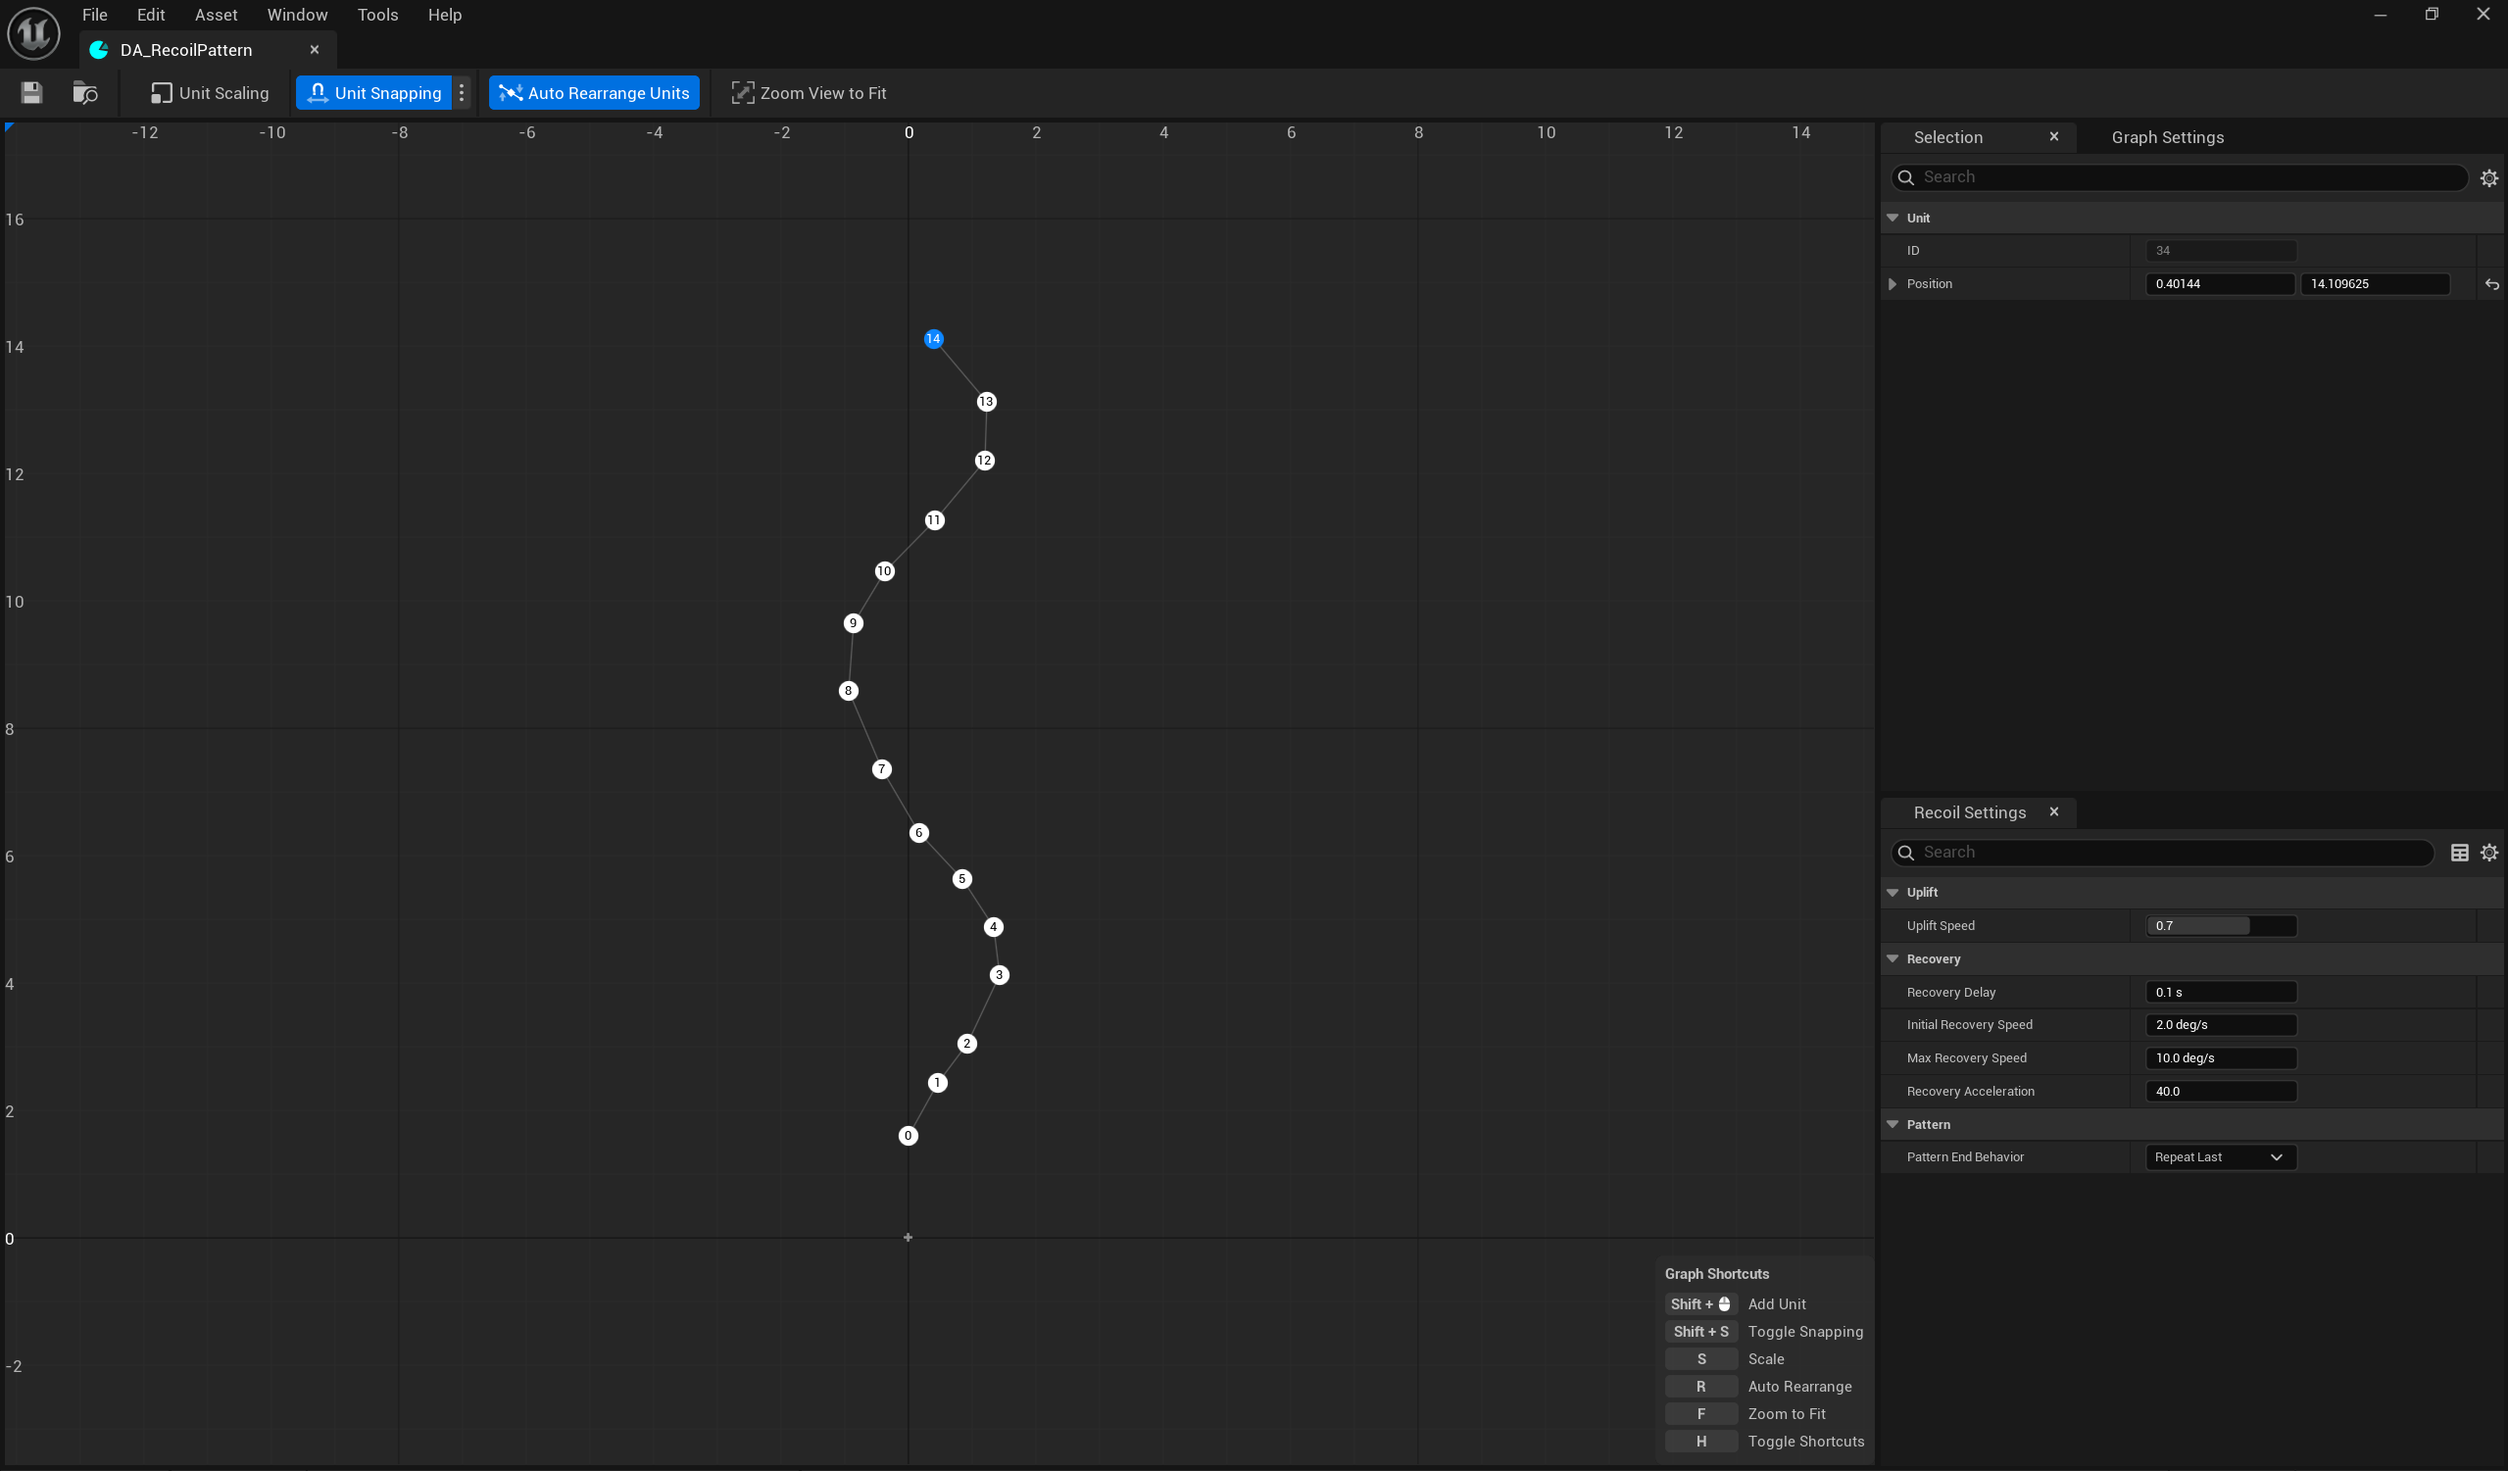
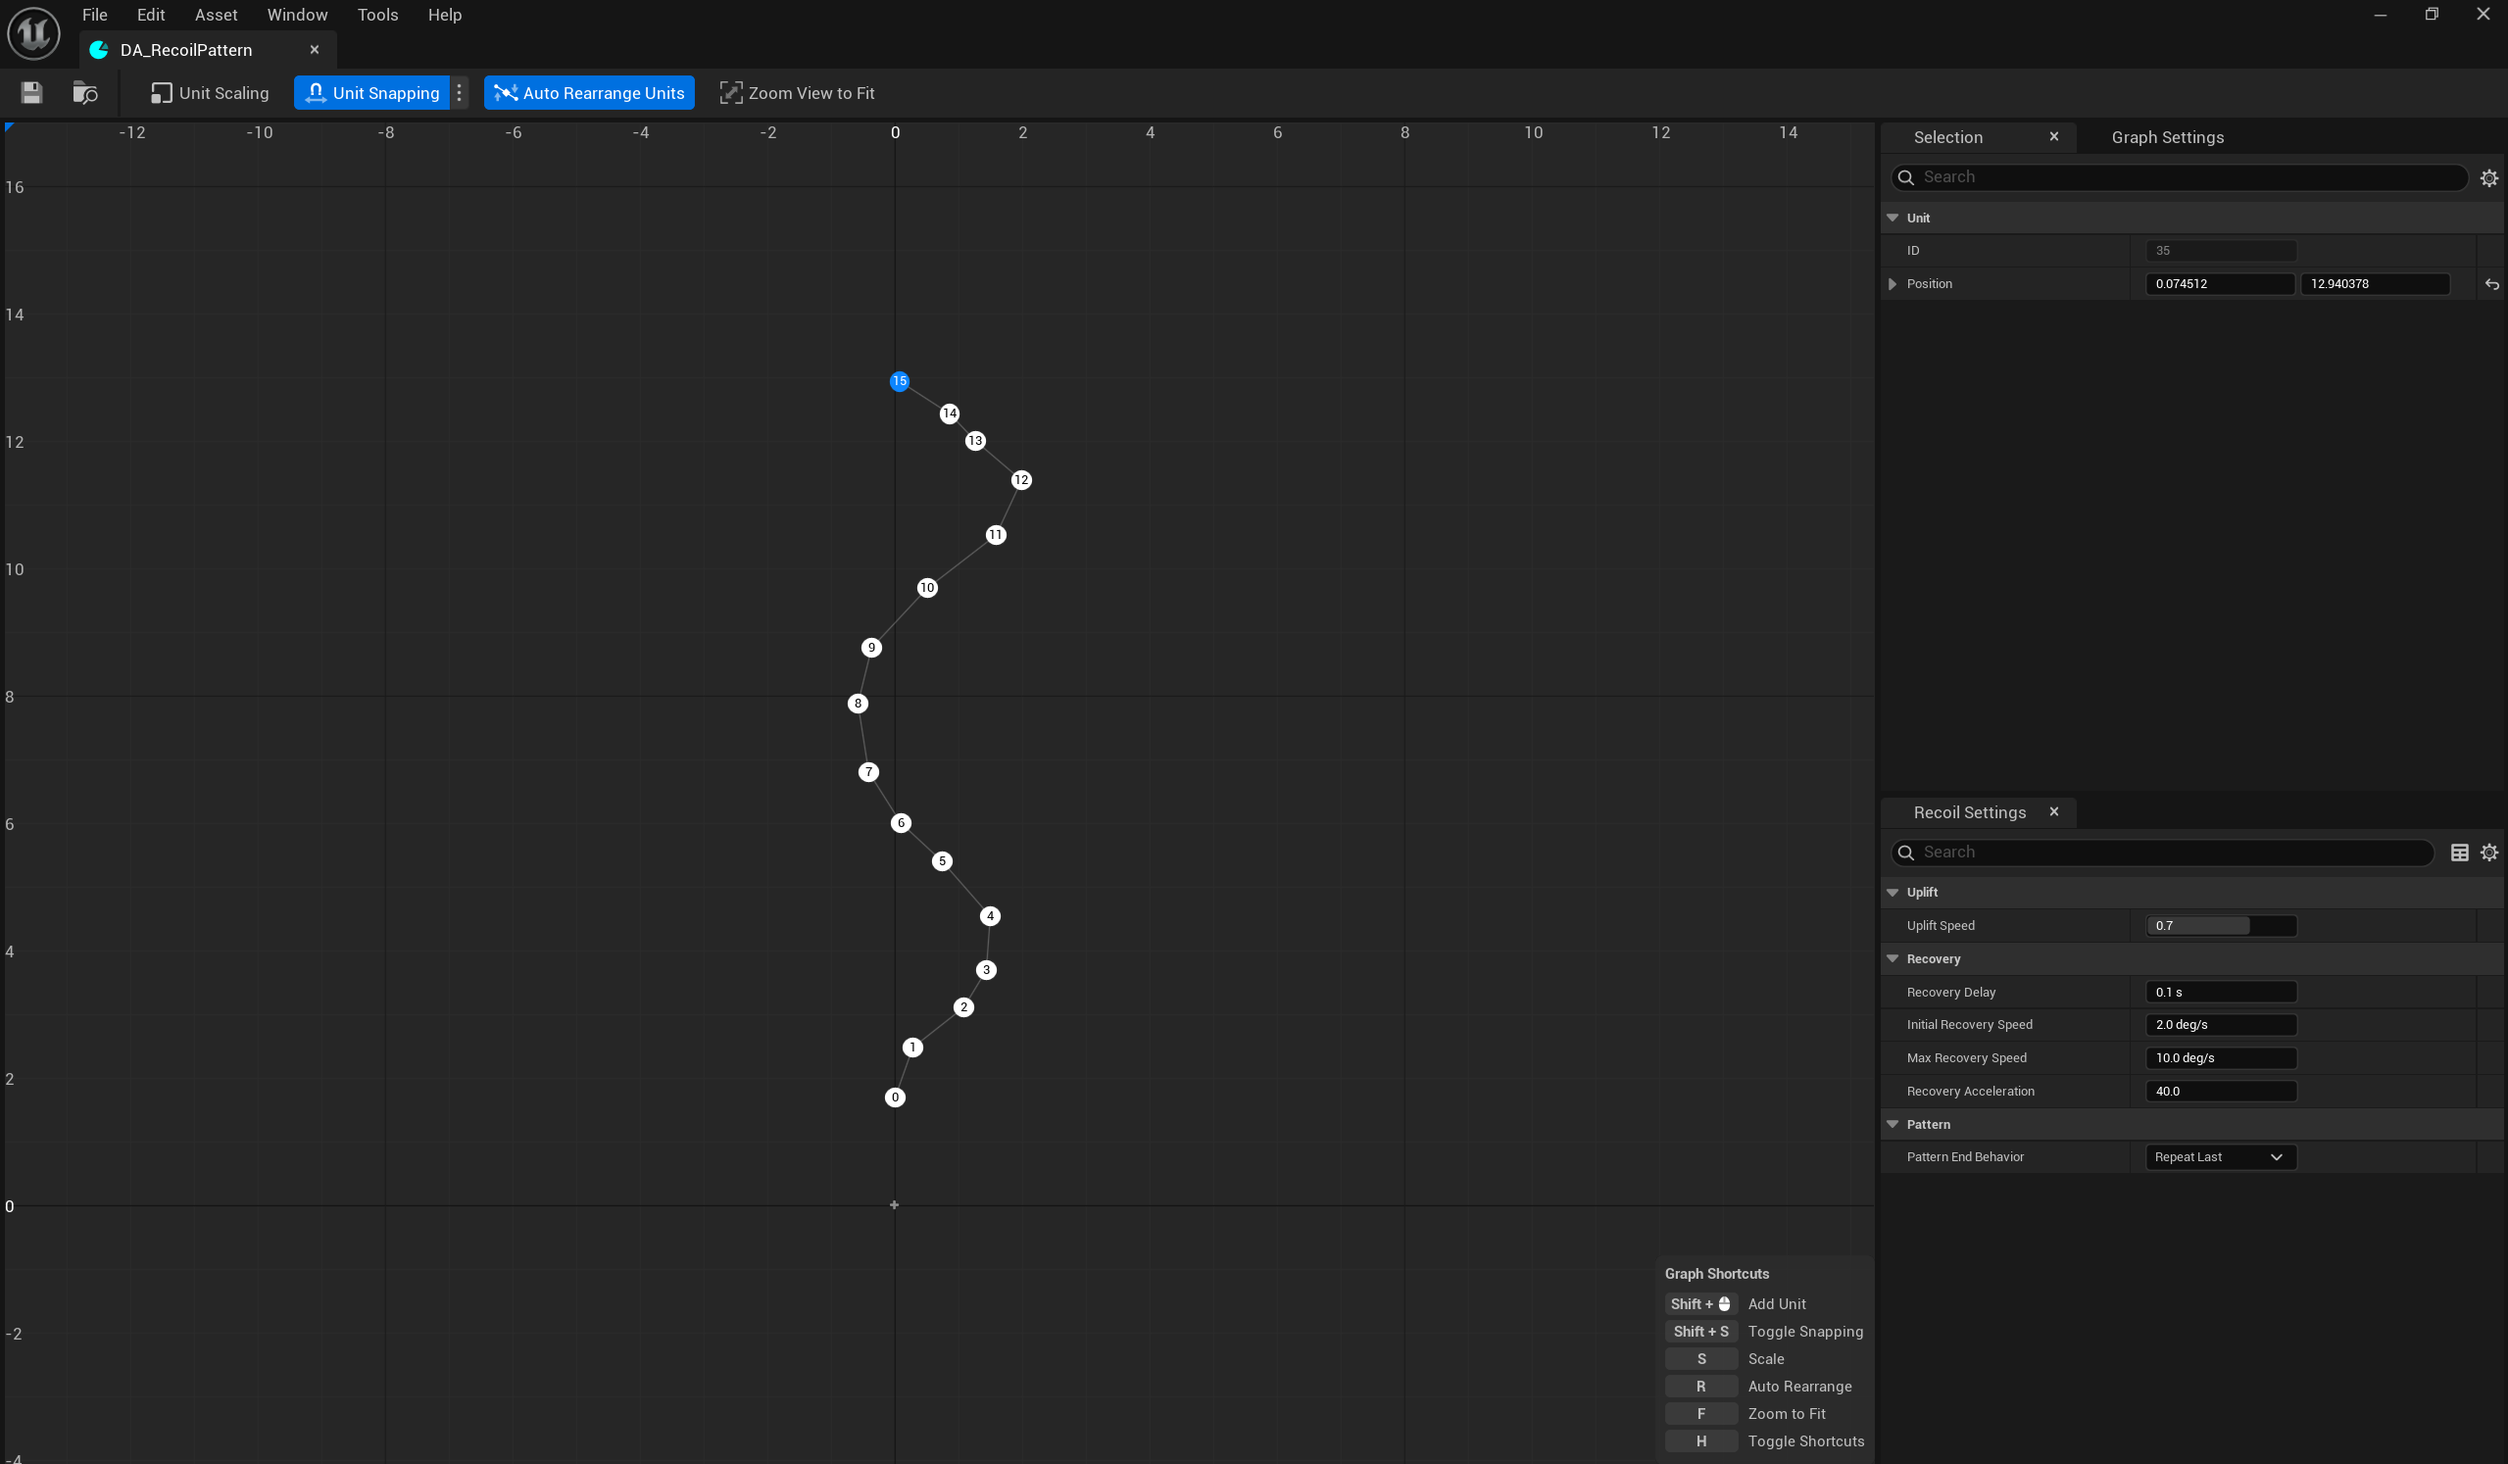
Consistent button spacing

diff --git a/Source/CrystalRecoilEditor/Private/CRRecoilPatternEditor.cpp b/Source/CrystalRecoilEditor/Private/CRRecoilPatternEditor.cpp
@@ -228,12 +228,16 @@ void FCRRecoilPatternEditor::ExtendToolBar()
 			TAttribute<FText>(),
 			FSlateIcon("EditorStyle", "ViewportToolbar.TransformScale"));
 
+		Builder.AddWidget(SNew(SSpacer).Size(FVector2D(8.f, 0.f)));
+
+		Builder.BeginBlockGroup();
 		Builder.AddToolBarButton(
 			Commands.UnitsSnapping,
 			"RecoilPatternToolBarExtHook",
 			TAttribute<FText>(),
 			TAttribute<FText>(),
 			FSlateIcon("EditorStyle", "GenericCurveEditor.ToggleInputSnapping"));
+
 		Builder.AddComboButton(
 			FUIAction(),
 			FOnGetContent::CreateSP(this, &FCRRecoilPatternEditor::GetMenuContent_UnitsSnapping),
@@ -241,6 +245,9 @@ void FCRRecoilPatternEditor::ExtendToolBar()
 			Commands.UnitsSnapping->GetDescription(),
 			FSlateIcon(),
 			true);
+		Builder.EndBlockGroup();
+
+		Builder.AddWidget(SNew(SSpacer).Size(FVector2D(8.f, 0.f)));
 
 		Builder.AddToolBarButton(
 			Commands.AutoRearrangeUnits,
@@ -248,6 +255,8 @@ void FCRRecoilPatternEditor::ExtendToolBar()
 			TAttribute<FText>(),
 			TAttribute<FText>(),
 			FSlateIcon("EditorStyle", "GenericCurveEditor.StraightenTangents"));
+
+		Builder.AddWidget(SNew(SSpacer).Size(FVector2D(4.f, 0.f)));
 
 		Builder.AddToolBarButton(
 			Commands.ZoomViewToFit,
